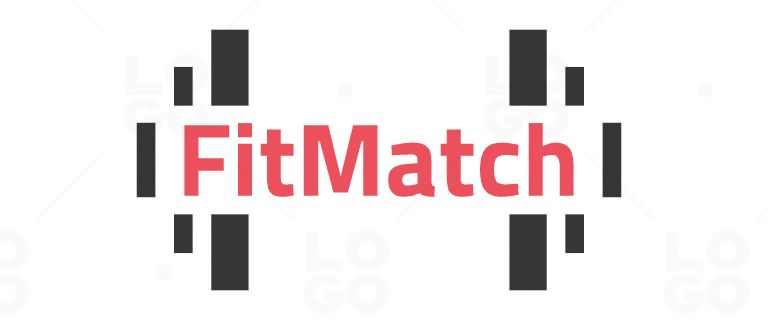
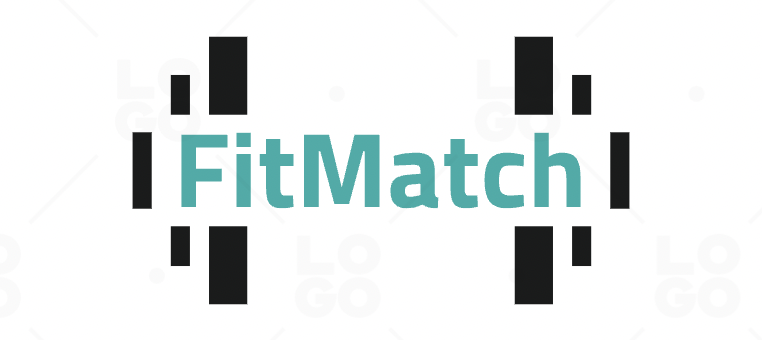
new color scheme

diff --git a/fit-match/client/src/index.css b/fit-match/client/src/index.css
@@ -18,19 +18,19 @@ html, body {
 .primary-button {
   color: #fff;
   font-size: 20px;
-  background: #FF4057;
+  background: linear-gradient(to right, #007788, #159897, #21ADA8, #99eebb);
   padding: 12px 30px;
   border-radius: 30px;
   border: none;
 }
 
 .primary-button:hover {
-  background: #36444d;
+  background: black;
 }
 
 .secondary-button {
   color: #FFFF;
-  background-color: #FF4057;
+  background: linear-gradient(to right, #007788, #159897, #21ADA8, #99eebb);
   font-weight: 500;
   font-size: 20px;
   padding: 12px 30px;
@@ -40,7 +40,7 @@ html, body {
 }
 
 .secondary-button:hover{
-  background: #36444d;
+  background: black;
 }
 
 /*------- Navigation Bar -------*/
@@ -52,7 +52,7 @@ nav{
 }
 
 nav .nav-button {
-  color: #FF4057;
+  color: linear-gradient(to right, #007788, #159897, #21ADA8, #99eebb);
   background-color: #fff;
   font-size: 20px;
   padding: 10px 20px;
@@ -63,8 +63,8 @@ nav .nav-button {
 }
 
 nav .nav-button:disabled {
-  background-color: #880f1d;
-  color:rgb(162, 156, 156);
+  background: linear-gradient(to right, #00333b, #0b4f4f, #15706d, #6dac86);
+  color:rgb(157, 152, 152);
 }
 
 nav .logo-container {

diff --git a/fit-match/client/src/pages/Home.js b/fit-match/client/src/pages/Home.js
@@ -25,7 +25,11 @@ function Home(){
                 setIsSignUp={setIsSignUp}/>
             <div className="home">
                 <h1 className="primary-title">FitMatch</h1>
-                <h2 className="tagline" style={{ color: '#ff4057', paddingTop: '0px', alignItems: 'top', fontFamily: 'Verdana, Geneva, Tahoma, sans-serif' }}> Match, Meet, Motivate </h2>
+                <h2 className="tagline" style={{paddingTop: '0px', alignItems: 'top', fontFamily: 'Verdana, Geneva, Tahoma, sans-serif' }}>
+                    <span style={{color:'#007788'}}>Match. </span> 
+                    <span style={{color:'#159897'}}>Meet. </span> 
+                    <span style={{color:'#21ADA8'}}>Motivate. </span>
+                </h2>
                 <button className="primary-button" onClick={handleClick}>
                     {authToken ? 'Signout' : 'Create Account'}
                 </button>

diff --git a/fit-match/client/src/pages/Home.css b/fit-match/client/src/pages/Home.css
@@ -26,7 +26,7 @@
   }
 
 .overlay h1{
-    color: #36444d;
+    color: black;
     font-family: Verdana, Geneva, Tahoma, sans-serif;
     padding-bottom: 0px;
     align-content: center;
@@ -37,7 +37,7 @@
 
 
 .overlay button{
-    background-color: #ff4057;
+    background: linear-gradient(to right, #007788, #159897, #21ADA8, #99eebb);
     color: white;
     font-family: Verdana, Geneva, Tahoma, sans-serif;
     font-weight: bold;
@@ -45,7 +45,7 @@
 }
 
 .overlay button:hover{
-    background: #36444d;
+    background: rgb(26, 25, 25);
   }
   
   
